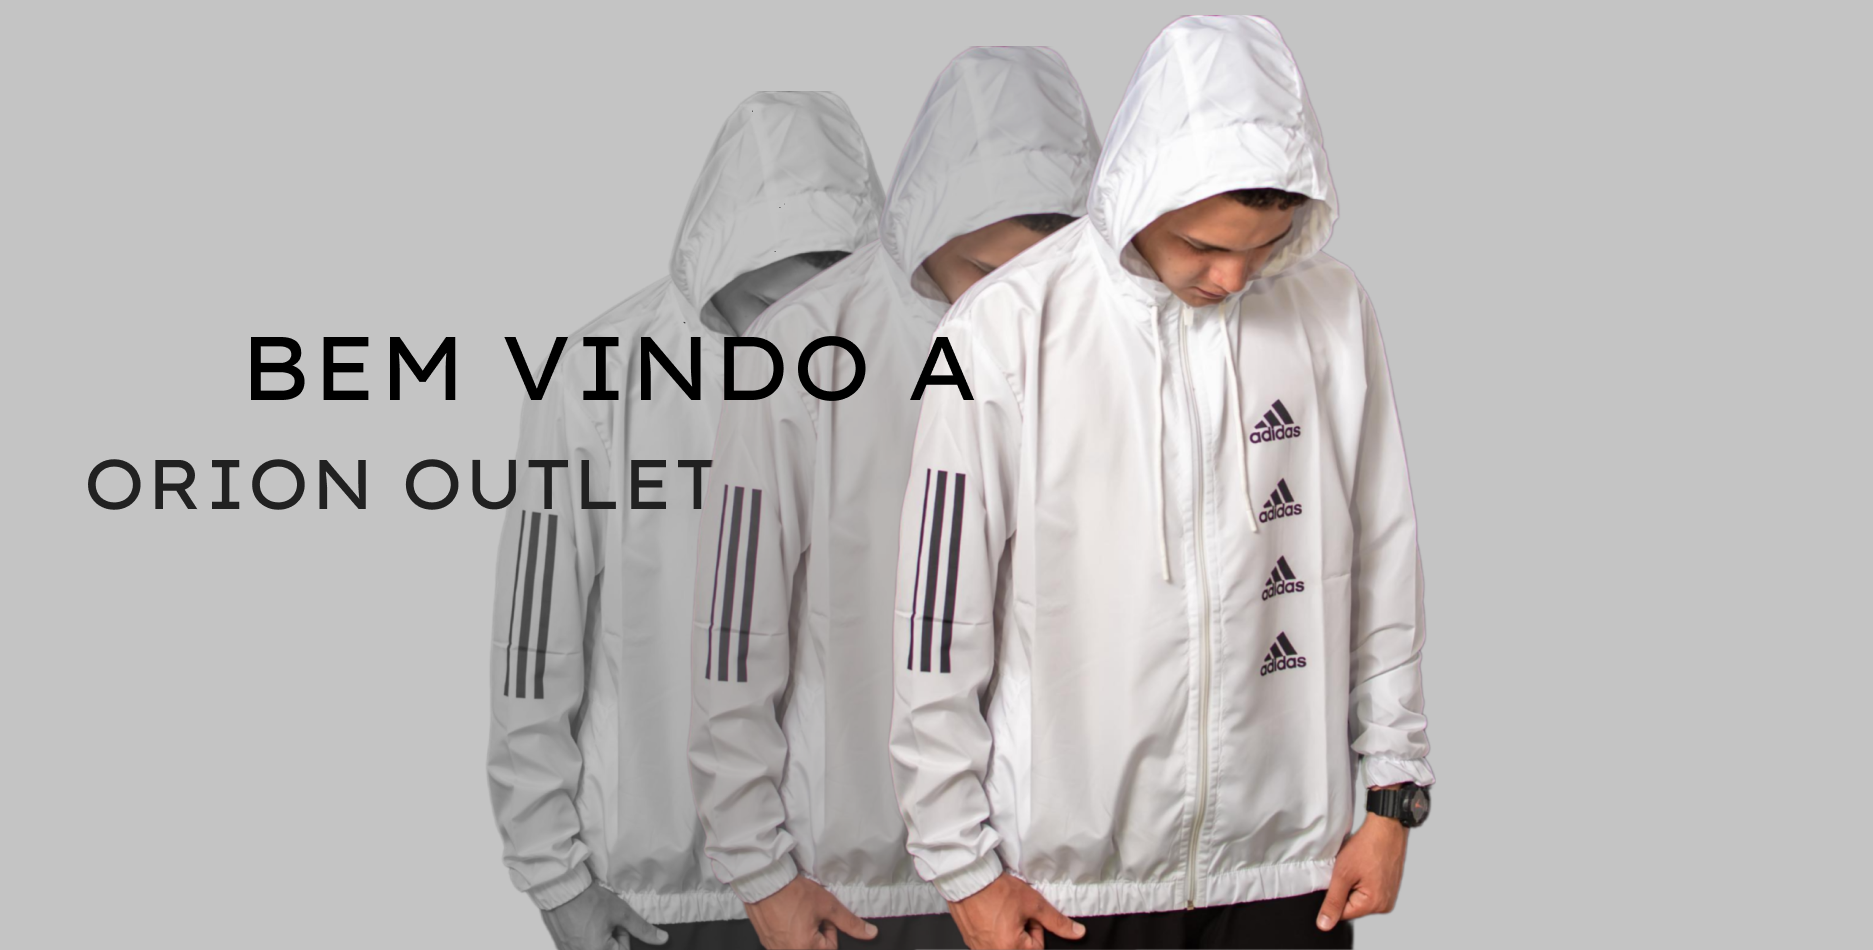
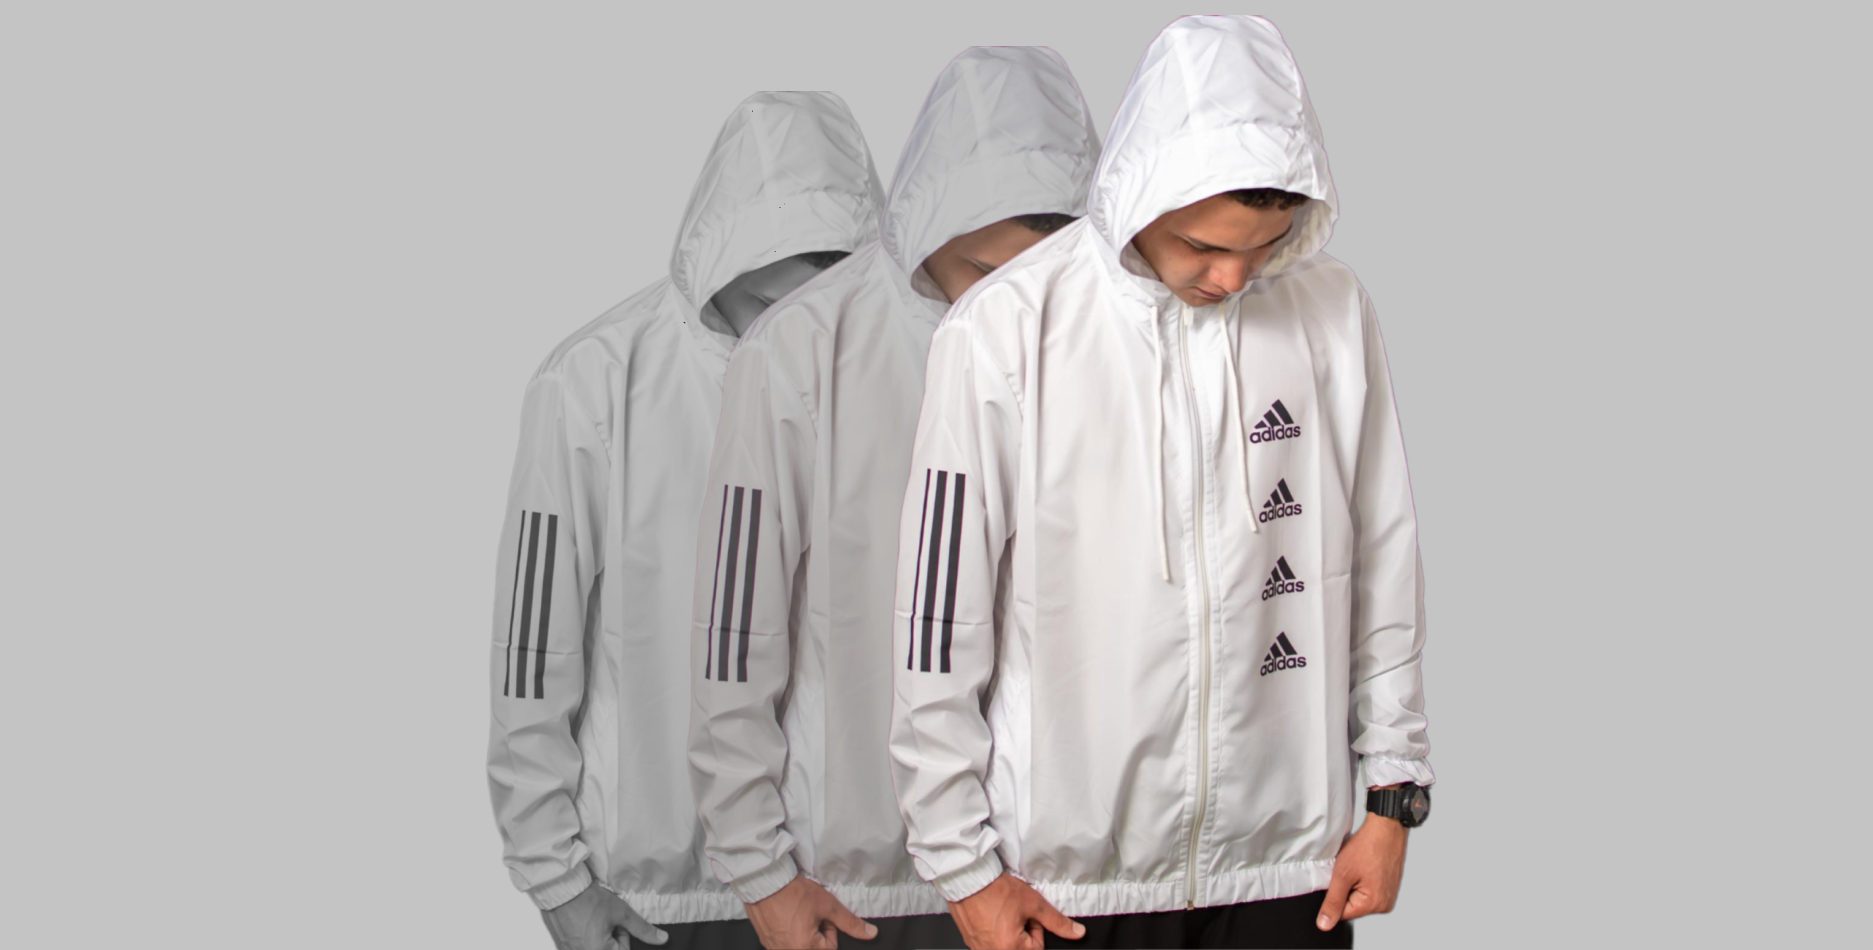
scrollreveal is add

Changed region(s): [[0.1239, 0.3358, 0.5264, 0.4274], [0.031, 0.4579, 0.4026, 0.5495]]

diff --git a/src/components/Commercial/Commercial.js b/src/components/Commercial/Commercial.js
@@ -1,25 +1,62 @@
 import React from "react";
+import { useEffect } from "react";
 import "./Commercial.css";
 import { IoLogoWhatsapp } from "react-icons/io";
 import { AiFillInstagram } from "react-icons/ai";
 import { FaFacebook } from "react-icons/fa";
+import ScrollReveal from "scrollreveal";
 
 function Commercial() {
   const links = [
-    { label: "Whatsapp", url: 'https://api.whatsapp.com/send/?phone=5571996613066&text=Ol%C3%A1%21+Desejo+ver+o+cat%C3%A1logo+com+todos+os+produtos.&type=phone_number&app_absent=0'},
-    { label: "Instagram", url: 'https://www.instagram.com/orionoutlet_/'},
-    { label: "Facebook", url: 'https://www.facebook.com/oironoutlet3066'},
+    {
+      label: "Whatsapp",
+      url: "https://api.whatsapp.com/send/?phone=5571996613066&text=Ol%C3%A1%21+Desejo+ver+o+cat%C3%A1logo+com+todos+os+produtos.&type=phone_number&app_absent=0",
+    },
+    { label: "Instagram", url: "https://www.instagram.com/orionoutlet_/" },
+    { label: "Facebook", url: "https://www.facebook.com/oironoutlet3066" },
   ];
+  useEffect(() => {
+    ScrollReveal().reveal(".reveal", {
+      origin: "left",
+      distance: "20px",
+      duration: 2000,
+      delay: 100,
+      easing: "cubic-bezier(0, 0, 0, 1)",
+      reset: true,
+    });
+    ScrollReveal().reveal(".reveal-right", {
+      origin: "right",
+      distance: "20px",
+      duration: 2000,
+      delay: 100,
+      easing: "cubic-bezier(0, 0, 0, 1)",
+      reset: true,
+    });
+  });
+
   return (
     <div className="background-container">
-      <div className="text-end text-white">
+      <div className="reveal">
+        <h1>BEM VINDO A</h1>
+        <h3>ORION OUTLET</h3>
+      </div>
+      <div
+        id="social-midia-text"
+        className="d-flex flex-column align-items-end text-white social-midia-text col-12 reveal-right"
+      >
         <p>Nossas Redes Sociais</p>
         <div className="social-midias">
           {links.map((link, index) => (
             <a key={index} href={link.url}>
-              {link.label === "Whatsapp" ? <IoLogoWhatsapp className="social-icon"/> : null}
-              {link.label === "Instagram" ? <AiFillInstagram className="social-icon" /> : null}
-              {link.label === "Facebook" ? <FaFacebook className="social-icon" /> : null}
+              {link.label === "Whatsapp" ? (
+                <IoLogoWhatsapp className="social-icon-whatsapp" />
+              ) : null}
+              {link.label === "Instagram" ? (
+                <AiFillInstagram className="social-icon-instagram" />
+              ) : null}
+              {link.label === "Facebook" ? (
+                <FaFacebook className="social-icon" />
+              ) : null}
             </a>
           ))}
         </div>

diff --git a/src/components/Commercial/Commercial.css b/src/components/Commercial/Commercial.css
@@ -1,19 +1,58 @@
+@import url("https://fonts.googleapis.com/css2?family=Dongle&family=Istok+Web:ital,wght@0,400;0,700;1,400;1,700&family=Poppins:ital,wght@0,100;0,200;0,300;0,400;0,500;0,600;0,700;0,800;0,900;1,100;1,200;1,300;1,400;1,500;1,600;1,700;1,800;1,900&display=swap");
+@import url("https://fonts.googleapis.com/css2?family=Dongle&family=Istok+Web:ital,wght@0,400;0,700;1,400;1,700&family=Lexend+Exa:wght@100..900&family=Poppins:ital,wght@0,100;0,200;0,300;0,400;0,500;0,600;0,700;0,800;0,900;1,100;1,200;1,300;1,400;1,500;1,600;1,700;1,800;1,900&display=swap");
+
 .background-container {
-    padding-top: 100px;
-    padding-right: 100px;
-    background-image: url('../../assets/Images/Commercial/Commercial1.png');
-    background-size: 100% 100%;
-    background-position: center;
-    background-repeat: no-repeat;
-    width: 100%;
-    height: 100vh;
-    font-family: Arial;
+  padding-top: 100px;
+  padding-right: 100px;
+  background-image: url("../../assets/Images/Commercial/Commercial1.png");
+  background-size: 100% 100%;
+  background-position: center;
+  background-repeat: no-repeat;
+  width: 100%;
+  height: 100vh;
+  font-family: Arial;
 }
 
-.social-midias{
-    padding-right: 130px;
+.social-midia-text {
+    margin-top: -250px;
+  margin-left: 40px;
 }
-.social-icon{
-    color: white;
-    font-size: 20px;
+.social-midia-text p {
+  font-size: 50px;
+  font-family: "Dongle", sans-serif;
+  font-weight: 400;
+  font-style: normal;
+}
+.social-icon {
+  color: white;
+  font-size: 40px;
+  margin-left: 20px;
+}
+.social-icon-instagram {
+  color: white;
+  font-size: 47px;
+  margin-left: 20px;
+}
+.social-icon-whatsapp {
+  color: white;
+  font-size: 43px;
+  margin-left: 20px;
+}
+.reveal {
+  color: black;
+  font-family: "Lexend Exa", sans-serif;
+  font-optical-sizing: auto;
+  font-style: normal;
+  margin-top: 100px;
+  margin-left: 70px;
+}
+
+.reveal h1 {
+    font-size: 70px;
+    font-weight: weight;
+    margin-left: 110px;
+}
+.reveal h3 {
+  font-size: 50px;
+  font-weight: 300;
 }
